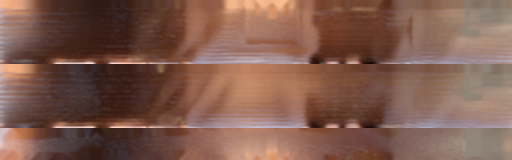
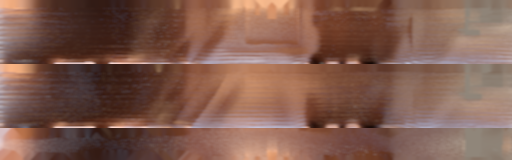
Add files via upload

diff --git a/l2/canyon.js b/l2/canyon.js
@@ -78,7 +78,7 @@ const kOpen=s=>Math.max(kPlaza(s),kAmph(s),0.8*kStele(s));
 /* direction VERS le soleil : très haut, un peu derrière nous (il frappe les façades des temples) */
 const SUN_D=[0.06,1,0.3],SUN_L=Math.hypot(...SUN_D);
 /* puits de lumière : la fente s'élargit et la gorge se cale sur la direction du soleil ; le faisceau descend jusqu'au sable */
-const WELLS=[[25,3.0,0.34,1],[31.5,2.8,0.46,1],[38,2.6,0.3,1],[61.5,2.6,0.4,0.3],[84,2.4,0.34,0.3],[95.5,2.6,0.62,1]];
+const WELLS=[[24.8,3.0,0.45,1],[30.2,2.8,0.55,1],[35.4,2.6,0.42,1],[40.6,2.4,0.4,1],[61.5,2.6,0.4,0.3],[84,2.4,0.34,0.3],[95.5,2.6,0.62,1]];
 /* le puits suit le faisceau : à la hauteur y, il est centré là où passe la lumière entrée par la fente en s0 */
 function alongSun(s){const p=pathAt(s,_pl);return -(SUN_D[0]*p.tx+SUN_D[2]*p.tz)/SUN_D[1];}
 function wellK(s,y,H){let k=0;for(const w of WELLS){const sb=w[0]+(H-y)*alongSun(w[0]);k=Math.max(k,Math.exp(-(((s-sb)/w[1])**2)));}return k;}
@@ -275,7 +275,7 @@ float rvLam(float st,vec3 P,float sp,out float k){float ph=st*sp+.45*rvN(P*.23+v
   float f=fract(ph);return (smoothstep(0.,.14,f)-smoothstep(.14,1.,f)*.92)*k;}
 float rvLamH(vec3 P,out float lip){float st=rvStrata(P);float sp=2.8+2.4*rvN(vec3(st*.11,.5,.2)),k1,k2;
   float a=rvLam(st,P,sp,k1),b=rvLam(st+.37,P*1.7,sp*(3.1+1.6*rvN(vec3(st*.4,.3,.8))),k2);float m=smoothstep(.3,.75,rvN(vec3(st*.6,.9,.3)+P*.03)),m2=smoothstep(.35,.8,rvN(vec3(st*1.3,.2,.5)+P*.05));
-  lip=a*m;return a*(.35+.65*m)+b*.3*m2;}`;
+  lip=a*m;return a*(.35+.65*m)+b*.12*m2;}`;
 const SANDSTONE_COLOR=`
   float rvSt=rvStrata(vW);
   /* couleur : bandes larges et fines (grès rouge, couches crème, lits lie-de-vin), grain, vernis du désert en coulures */
@@ -286,10 +286,10 @@ const SANDSTONE_COLOR=`
   rvC*=.9+.2*rvB4;
   float rvTa=1.-.8*(1.-smoothstep(uTAc.w*.55,uTAc.w,length(vW.xz-uTAc.xz)));                // falaise du Trésor : lisse, sans lamines serrées
   float rvLip,rvLk=LINEK*mix(1.,.35,clamp(vG.y*1.4-.4,0.,1.))*rvTa;float rvLh=rvLamH(vW,rvLip);
-  rvC*=1.+(.12*rvLip-.045*(1.-rvLh))*rvLk;                                         // lèvres claires, creux plus sombres
-  float rvGr=rvN(vW*31.)*(1.-smoothstep(.004,.02,fwidth(vW.y)));rvC*=.95+.1*rvGr;
+  rvC*=1.+(.05*rvLip-.02*(1.-rvLh))*rvLk;                                         // lèvres claires, creux plus sombres
+  float rvGr=rvN(vW*31.)*(1.-smoothstep(.004,.02,fwidth(vW.y)));rvC*=.97+.06*rvGr;
   rvC*=.92+.16*rvF(vW*.09+1.7);
-  float rvVa=smoothstep(.62,.9,rvN(vec3(vW.x*2.6,vW.y*.05,vW.z*2.6)+11.))*smoothstep(3.,14.,vW.y)*(1.-smoothstep(.3,.8,vG.y));
+  float rvVa=smoothstep(.66,.92,rvN(vec3(vW.x*1.3,vW.y*.04,vW.z*1.3)+11.))*smoothstep(6.,16.,vW.y)*smoothstep(.45,.9,vG.y)*.6;
   rvC*=1.-.38*rvVa*LINEK;                                                          // coulures sombres sous les rebords
   float rvSpl=smoothstep(.74,.8,rvF(vW*.55+4.2))*LINEK;rvC=mix(rvC,rvC*1.12+vec3(.05,.035,.02),rvSpl*.7);   // écailles fraîches, plus claires
   rvC=mix(rvC,rvC*1.08+vec3(.03,.02,.01),(1.-smoothstep(.3,1.8,vW.y))*.6);        // pied poli par le sable
@@ -297,7 +297,7 @@ const SANDSTONE_COLOR=`
   diffuseColor.rgb=rvC*TINT;`;
 const SANDSTONE_NORMAL=`
   {float rvLp;float lk=LINEK*mix(1.,.3,clamp(vG.y*1.4-.4,0.,1.))*(1.-.8*(1.-smoothstep(uTAc.w*.55,uTAc.w,length(vW.xz-uTAc.xz))));
-   float h=.006*rvLamH(vW,rvLp)*lk+.007*rvF(vW*.7)+.0012*rvF(vW*6.)+.0005*rvN(vW*55.)*(1.-smoothstep(.003,.012,fwidth(vW.y)))
+   float h=.0028*rvLamH(vW,rvLp)*lk+.008*rvF(vW*.7)+.0009*rvF(vW*6.)+.0005*rvN(vW*55.)*(1.-smoothstep(.003,.012,fwidth(vW.y)))
      -.0025*smoothstep(.74,.8,rvF(vW*.55+4.2))*LINEK;
    normal=rvBump(-vViewPosition,normal,h,1.);}`;
 function sandstoneMat(key,tint,extra){extra=extra||{};
@@ -430,7 +430,7 @@ uniform sampler2D tDepth,tShadow;uniform highp sampler3D uN;uniform mat4 uInvPro
 float vis(vec3 p){vec4 sc=uShadowM*vec4(p,1.);sc.xyz/=sc.w;if(sc.x<0.||sc.x>1.||sc.y<0.||sc.y>1.||sc.z>1.)return 0.;return step(sc.z-.0015,unpackRGBAToDepth(texture2D(tShadow,sc.xy)));}
 void main(){
   float dz=texture2D(tDepth,vUv).x;vec4 v=uInvProj*vec4(vUv*2.-1.,dz*2.-1.,1.);v/=v.w;vec3 wp=(uCamW*vec4(v.xyz,1.)).xyz;vec3 rd=wp-uCam;float dist=length(rd);rd/=dist;dist=min(dist,uMaxD);
-  float c=max(dot(rd,uSunDir),0.),ph=.5+.9*pow(c,4.)+1.4*pow(c,40.);
+  float c=max(dot(rd,uSunDir),0.),ph=.85+1.1*pow(c,4.)+1.8*pow(c,40.);
   float dt=dist/float(STEPS),j=fract(52.9829189*fract(dot(gl_FragCoord.xy+uFrame*5.588238,vec2(.06711056,.00583715))));
   vec3 acc=vec3(0.);float T=1.;
   for(int i=0;i<STEPS;i++){vec3 p=uCam+rd*(float(i)+j)*dt;
@@ -450,9 +450,9 @@ void main(){
 class AirPass extends Pass{
   constructor(rtScene){super();this.rtScene=rtScene;
     const vs=`varying vec2 vUv;void main(){vUv=uv;gl_Position=vec4(position.xy,0.,1.);}`;
-    this.vol=new THREE.ShaderMaterial({vertexShader:vs,fragmentShader:VOL_FS,defines:{STEPS:[16,28,40][TIER],NLANV:NLAN},depthTest:false,depthWrite:false,
+    this.vol=new THREE.ShaderMaterial({vertexShader:vs,fragmentShader:VOL_FS,defines:{STEPS:[16,32,52][TIER],NLANV:NLAN},depthTest:false,depthWrite:false,
       uniforms:{tDepth:{value:null},tShadow:{value:null},uN:{value:N3},uInvProj:{value:new THREE.Matrix4()},uCamW:{value:new THREE.Matrix4()},uShadowM:{value:new THREE.Matrix4()},uSunDir:{value:SUN},
-        uSunCol:{value:new THREE.Color(1,.86,.66).multiplyScalar(+(PQ.get('cray')||7.0))},uAmbCol:{value:new THREE.Color(.95,.42,.16).multiplyScalar(+(PQ.get('camb')||.6)*(GIB.on?.3:1))},uCam:{value:V3()},uTime:U.uTime,
+        uSunCol:{value:new THREE.Color(1,.84,.62).multiplyScalar(+(PQ.get('cray')||8.5))},uAmbCol:{value:new THREE.Color(.95,.42,.16).multiplyScalar(+(PQ.get('camb')||.6)*(GIB.on?.3:1))},uCam:{value:V3()},uTime:U.uTime,
         uSigma:{value:+(PQ.get('csig')||.011)},uMaxD:{value:90},uNear:{value:2.4},uFrame:{value:0},uRim:U.uRim,uPlume:{value:Array.from({length:4},()=>new THREE.Vector4())},uLanP:U.uLanP,uLanC:U.uLanC,uOpen:{value:[new THREE.Vector4(8,-11,0,14),new THREE.Vector4(38.3,-29,0,13)]}}});
     this.comp=new THREE.ShaderMaterial({vertexShader:vs,depthTest:false,depthWrite:false,uniforms:{tScene:{value:null},tVol:{value:null},tAO:{value:null},tDepth:{value:null},uNearC:{value:.05},uFarC:{value:420},uPx:{value:new THREE.Vector2()}},
       fragmentShader:`uniform sampler2D tScene,tVol,tAO,tDepth;uniform vec2 uPx;uniform float uNearC,uFarC;varying vec2 vUv;
@@ -477,15 +477,23 @@ class AirPass extends Pass{
     /* accumulation dans le temps (la trame du pas aléatoire se fond en grain fin) */
     this.acc=new THREE.ShaderMaterial({vertexShader:vs,depthTest:false,depthWrite:false,uniforms:{tCur:{value:null},tPrev:{value:null},uK:{value:0}},
       fragmentShader:`uniform sampler2D tCur,tPrev;uniform float uK;varying vec2 vUv;void main(){gl_FragColor=mix(texture2D(tCur,vUv),texture2D(tPrev,vUv),uK);}`});
+    this.blur=new THREE.ShaderMaterial({vertexShader:vs,depthTest:false,depthWrite:false,uniforms:{tSrc:{value:null},tDepth:{value:null},uDir:{value:new THREE.Vector2(1,0)},uPx:{value:new THREE.Vector2()},uNearC:{value:.05},uFarC:{value:420}},
+      fragmentShader:`uniform sampler2D tSrc,tDepth;uniform vec2 uDir,uPx;uniform float uNearC,uFarC;varying vec2 vUv;
+        float lz(vec2 uv){float d=texture2D(tDepth,uv).x*2.-1.;return 2.*uNearC*uFarC/(uFarC+uNearC-d*(uFarC-uNearC));}
+        void main(){float z0=lz(vUv);vec4 s=vec4(0.);float ws=0.;for(int i=-4;i<=4;i++){vec2 q=vUv+uDir*uPx*float(i)*.9;float w=exp(-float(i*i)/7.)*exp(-abs(lz(q)-z0)/(.12*z0+.1));s+=texture2D(tSrc,q)*w;ws+=w;}gl_FragColor=s/max(ws,1e-5);}`});
+    this.rtB=[0,1].map(()=>new THREE.WebGLRenderTarget(4,4,{type:THREE.HalfFloatType,depthBuffer:false}));
     this.fsq=new FullScreenQuad(this.vol);this.rt=new THREE.WebGLRenderTarget(4,4,{type:THREE.HalfFloatType,depthBuffer:false});this.rtAO=new THREE.WebGLRenderTarget(4,4,{depthBuffer:false});this.frame=0;
     this.rtA=[new THREE.WebGLRenderTarget(4,4,{type:THREE.HalfFloatType,depthBuffer:false}),new THREE.WebGLRenderTarget(4,4,{type:THREE.HalfFloatType,depthBuffer:false})];this.ai=0;this.lastCam=new THREE.Matrix4();}
-  setSize(w,h){const k=TIER===2?.5:.4;this.rt.setSize(Math.max(2,w*k|0),Math.max(2,h*k|0));this.rtA.forEach(r=>r.setSize(Math.max(2,w*k|0),Math.max(2,h*k|0)));this.rtAO.setSize(Math.max(2,w*.5|0),Math.max(2,h*.5|0));this.comp.uniforms.uPx.value.set(1/this.rt.width,1/this.rt.height);}
+  setSize(w,h){const k=TIER===2?.5:.4;this.rt.setSize(Math.max(2,w*k|0),Math.max(2,h*k|0));this.rtA.forEach(r=>r.setSize(Math.max(2,w*k|0),Math.max(2,h*k|0)));this.rtB.forEach(r=>r.setSize(Math.max(2,w*k|0),Math.max(2,h*k|0)));this.rtAO.setSize(Math.max(2,w*.5|0),Math.max(2,h*.5|0));this.comp.uniforms.uPx.value.set(1/this.rt.width,1/this.rt.height);}
   render(r,writeBuffer){const u=this.vol.uniforms;u.tDepth.value=this.rtScene.depthTexture;u.tShadow.value=sun.shadow.map?sun.shadow.map.texture:null;if(!u.tShadow.value)return;
     u.uInvProj.value.copy(camera.projectionMatrixInverse);u.uCamW.value.copy(camera.matrixWorld);u.uShadowM.value.copy(sun.shadow.matrix);u.uCam.value.copy(camera.position);u.uFrame.value=CAPTURE?0:(this.frame++%8);
     this.fsq.material=this.vol;r.setRenderTarget(this.rt);this.fsq.render(r);
     {const e=camera.matrixWorld.elements,l=this.lastCam.elements;let mv=0;for(let i=0;i<16;i++)mv+=Math.abs(e[i]-l[i]);this.lastCam.copy(camera.matrixWorld);
      const A=this.acc.uniforms,cur=this.rtA[this.ai],prev=this.rtA[1-this.ai];A.tCur.value=this.rt.texture;A.tPrev.value=prev.texture;A.uK.value=CAPTURE?0:(mv>0.5?0.15:mv>0.05?0.45:0.7);
-     this.fsq.material=this.acc;r.setRenderTarget(cur);this.fsq.render(r);this.volTex=cur.texture;this.ai=1-this.ai;}
+     this.fsq.material=this.acc;r.setRenderTarget(cur);this.fsq.render(r);this.volTex=cur.texture;this.ai=1-this.ai;
+     const B=this.blur.uniforms;B.tDepth.value=this.rtScene.depthTexture;B.uNearC.value=camera.near;B.uFarC.value=camera.far;B.uPx.value.set(1/cur.width,1/cur.height);this.fsq.material=this.blur;
+     B.tSrc.value=cur.texture;B.uDir.value.set(1,0);r.setRenderTarget(this.rtB[0]);this.fsq.render(r);
+     B.tSrc.value=this.rtB[0].texture;B.uDir.value.set(0,1);r.setRenderTarget(this.rtB[1]);this.fsq.render(r);this.volTex=this.rtB[1].texture;}
     const ua=this.ao.uniforms;ua.tDepth.value=this.rtScene.depthTexture;ua.uInvProj.value.copy(camera.projectionMatrixInverse);ua.uProj.value.copy(camera.projectionMatrix);this.fsq.material=this.ao;r.setRenderTarget(this.rtAO);this.fsq.render(r);this.comp.uniforms.tAO.value=this.rtAO.texture;
     this.comp.uniforms.tDepth.value=this.rtScene.depthTexture;this.comp.uniforms.uNearC.value=camera.near;this.comp.uniforms.uFarC.value=camera.far;
     this.comp.uniforms.tScene.value=this.rtScene.texture;this.comp.uniforms.tVol.value=this.volTex||this.rt.texture;this.fsq.material=this.comp;r.setRenderTarget(this.renderToScreen?null:writeBuffer);this.fsq.render(r);}
@@ -501,7 +509,7 @@ class ExposurePass extends Pass{
     this.mAvg=new THREE.ShaderMaterial({vertexShader:vs,depthTest:false,depthWrite:false,uniforms:{tSrc:{value:null},tPrev:{value:null},uK:{value:1}},
       fragmentShader:`uniform sampler2D tSrc,tPrev;uniform float uK;void main(){vec2 a=vec2(0.);for(int i=0;i<32;i++)for(int j=0;j<18;j++)a+=texture2D(tSrc,(vec2(float(i),float(j))+.5)/vec2(32.,18.)).rg;
         float l=a.x/a.y;float p=texture2D(tPrev,vec2(.5)).r;gl_FragColor=vec4(mix(p,l,uK),0.,0.,1.);}`});
-    this.mApp=new THREE.ShaderMaterial({vertexShader:vs,depthTest:false,depthWrite:false,uniforms:{tDiffuse:{value:null},tExp:{value:null},uKey:{value:+(PQ.get('ckey')||.08)},uLo:{value:.4},uHi:{value:14}},
+    this.mApp=new THREE.ShaderMaterial({vertexShader:vs,depthTest:false,depthWrite:false,uniforms:{tDiffuse:{value:null},tExp:{value:null},uKey:{value:+(PQ.get('ckey')||.075)},uLo:{value:.35},uHi:{value:12}},
       fragmentShader:`uniform sampler2D tDiffuse,tExp;uniform float uKey,uLo,uHi;varying vec2 vUv;void main(){float l=exp(texture2D(tExp,vec2(.5)).r);
         vec3 c=texture2D(tDiffuse,vUv).rgb*clamp(uKey/l,uLo,uHi);if(any(isnan(c)))c=vec3(0.);gl_FragColor=vec4(clamp(c,0.,6e4),1.);}`});
     const o={type:THREE.HalfFloatType,depthBuffer:false};this.r32=new THREE.WebGLRenderTarget(32,18,o);this.r1=[new THREE.WebGLRenderTarget(1,1,{type:THREE.FloatType,depthBuffer:false}),new THREE.WebGLRenderTarget(1,1,{type:THREE.FloatType,depthBuffer:false})];
@@ -509,7 +517,7 @@ class ExposurePass extends Pass{
   render(r,writeBuffer,readBuffer){
     this.mLum.uniforms.tSrc.value=readBuffer.texture;this.fsq.material=this.mLum;r.setRenderTarget(this.r32);this.fsq.render(r);
     const cur=this.r1[this.i],prev=this.r1[1-this.i];const A=this.mAvg.uniforms;A.tSrc.value=this.r32.texture;A.tPrev.value=prev.texture;
-    A.uK.value=(CAPTURE||this.first)?1:1-Math.exp(-this.dt*1.6);this.first=false;this.fsq.material=this.mAvg;r.setRenderTarget(cur);this.fsq.render(r);this.i=1-this.i;
+    A.uK.value=(CAPTURE||this.first)?1:1-Math.exp(-this.dt*(this.dt>0?0.65:1));this.first=false;this.fsq.material=this.mAvg;r.setRenderTarget(cur);this.fsq.render(r);this.i=1-this.i;
     const P=this.mApp.uniforms;P.tDiffuse.value=readBuffer.texture;P.tExp.value=cur.texture;this.fsq.material=this.mApp;r.setRenderTarget(this.renderToScreen?null:writeBuffer);this.fsq.render(r);}
 }
 let rtScene,composer,air,bloom,grade,expo;
@@ -518,7 +526,7 @@ function buildPost(){
   composer=new EffectComposer(renderer,new THREE.WebGLRenderTarget(4,4,{type:THREE.HalfFloatType}));
   air=new AirPass(rtScene);composer.addPass(air);
   expo=new ExposurePass();composer.addPass(expo);
-  bloom=new UnrealBloomPass(new THREE.Vector2(256,256),+(PQ.get('cbloom')||.14),.7,2.2);composer.addPass(bloom);
+  bloom=new UnrealBloomPass(new THREE.Vector2(256,256),+(PQ.get('cbloom')||.22),.75,1.7);composer.addPass(bloom);
   composer.addPass(new OutputPass());
   grade=new ShaderPass({uniforms:{tDiffuse:{value:null},uTime:U.uTime},
     vertexShader:`varying vec2 vUv;void main(){vUv=uv;gl_Position=projectionMatrix*modelViewMatrix*vec4(position,1.);}`,
@@ -574,7 +582,7 @@ function basePose(P,dt){
   const G=STA[g];
   if(G&&P>API.P_FIN-.3){const dist=G.s-WALK.s;
     /* chaque trajet dure 12 à 15 s, quelle que soit sa longueur (13 s pour l'arrivée, 13,5 s entre les temples) */
-    if(!WALK.vm)WALK.vm=Math.max(0.6,fitV(Math.abs(dist),Math.min(WALK.first?13:13.5,2.2+Math.abs(dist)*0.9)));
+    if(!WALK.vm)WALK.vm=Math.max(0.6,fitV(Math.abs(dist),Math.min(WALK.first?8:13.5,2.2+Math.abs(dist)*0.9)));
     const vmax=WALK.vm,vt=Math.abs(dist)<0.01?0:Math.sign(dist)*Math.min(vmax,Math.sqrt(2*W_ACC*Math.abs(dist))+0.04);
     WALK.v+=(vt-WALK.v)*(1-Math.exp(-dt*W_K));WALK.s+=WALK.v*dt;if((dist>0&&WALK.s>G.s)||(dist<0&&WALK.s<G.s)){WALK.s=G.s;WALK.v=0;}}
   else WALK.v=0;

diff --git a/l2.html b/l2.html
@@ -9258,7 +9258,7 @@ let WARMING=false;
    Comme la forêt de la L1 : chargé à l'approche du portail, piloté image par image depuis frame(), dessiné
    sur son propre canvas par-dessus la scène. Si le module échoue (WebGL, réseau…), on retombe sur la scène
    de finance d'origine. */
-const RVCH={st:0,dead:false},RVC_URL=new URL('./l2/canyon.js?v=20261116f',import.meta.url).href;
+const RVCH={st:0,dead:false},RVC_URL=new URL('./l2/canyon.js?v=20261116g',import.meta.url).href;
 const rvcCovered=()=>!!(window.RVC&&window.RVC.covers);
 function rvcEnter(i){const F=SYS.fins&&SYS.fins[Math.max(0,Math.min(SYS.fins.length-1,i|0))];if(F&&!CAVE.on&&CAVE.k<0.05)caveEnter(F.sj,'sand',F);}
 function rvcDie(e){console.error('[RVC] canyon indisponible, retour à la scène d\u2019origine',e);RVCH.dead=true;
